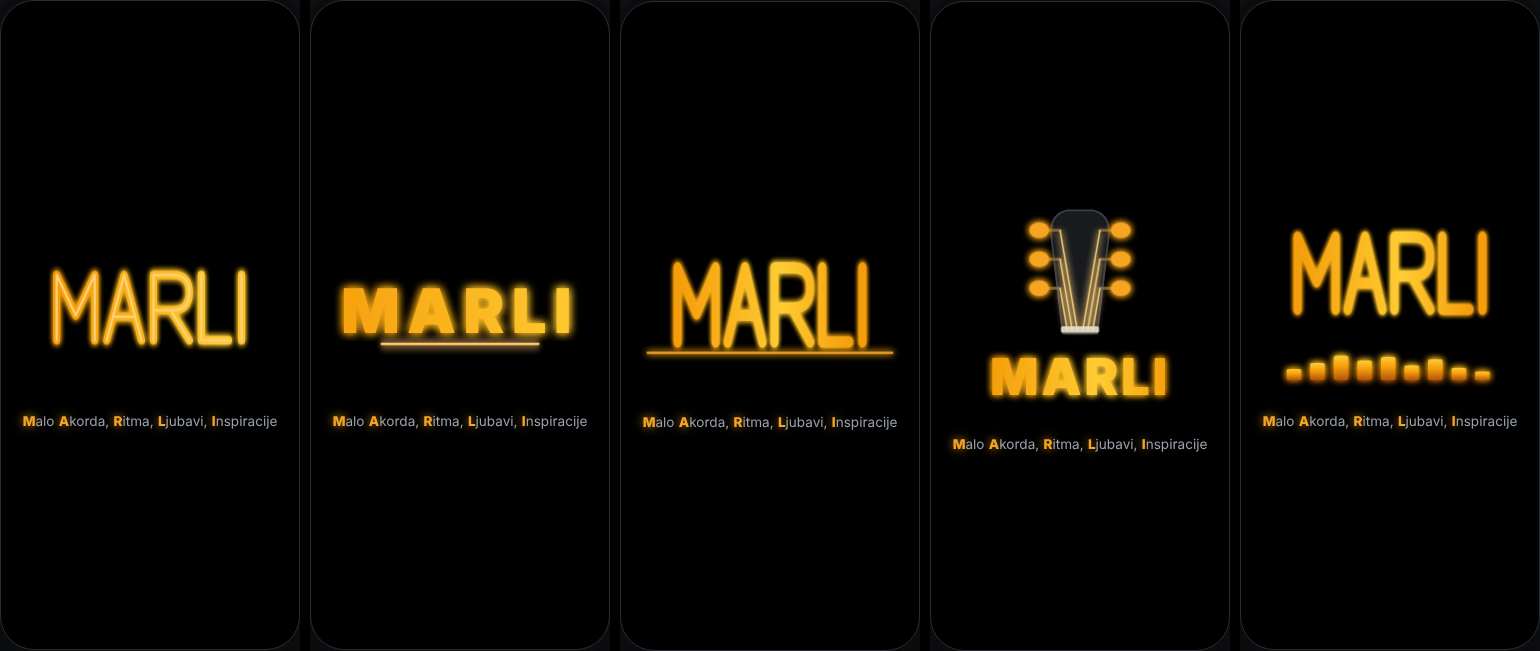
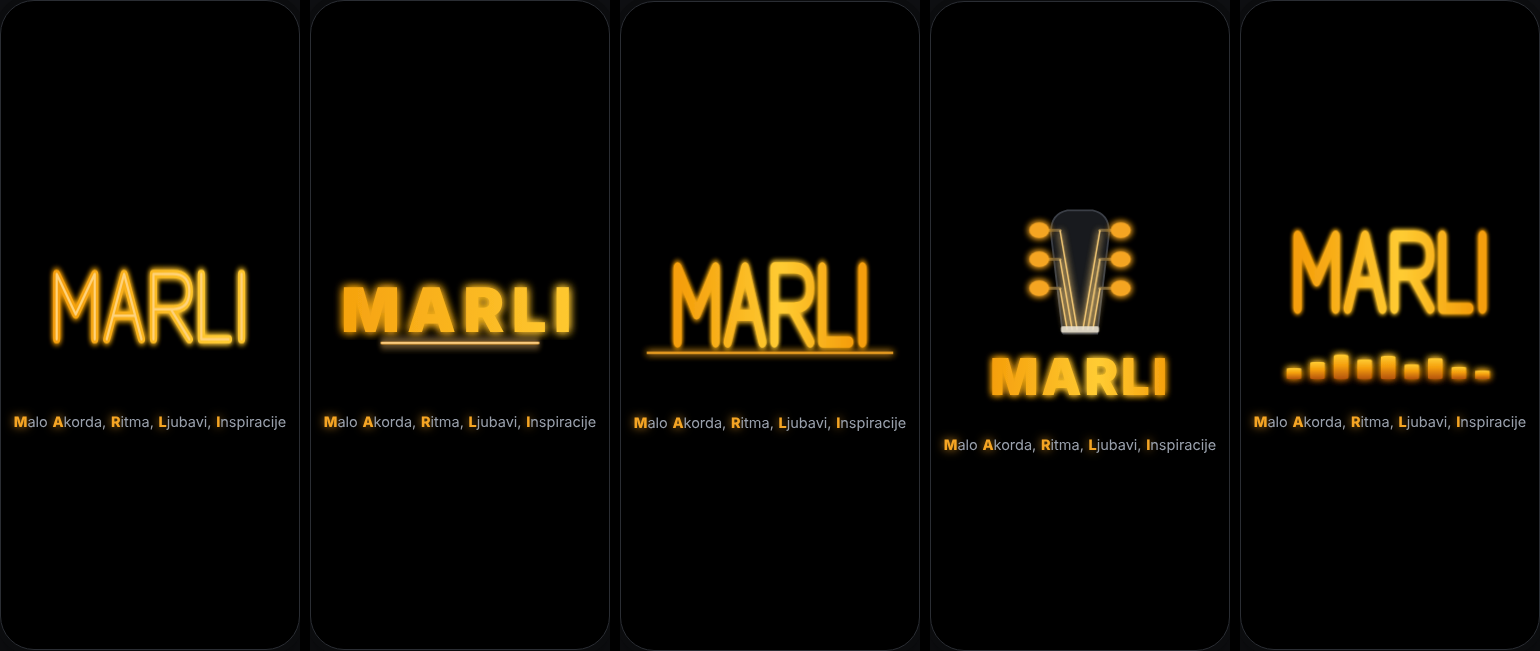
MARLI, faza 1: rečenica ispod imena uvek u jednom redu u svakom pregledaču (meri se i smanjuje dok ne stane)
Claude-Session: https://claude.ai/code/session_01NDUSKUN97fWP9dPBbYtahr

diff --git a/docs/marli/index.html b/docs/marli/index.html
@@ -56,7 +56,7 @@
   .phone { container-type: inline-size; width: min(300px, 82vw); aspect-ratio: 9 / 19.5; margin: 0 auto; border-radius: 34px; background: #000; border: 1px solid #2a2d33; box-shadow: 0 0 0 6px #0b0c0e, 0 18px 40px rgba(0,0,0,.6); position: relative; overflow: hidden; }
   .phone .stage { position: absolute; inset: 0; display: flex; flex-direction: column; align-items: center; justify-content: center; gap: 14px; }
   .anim-card .row { display: flex; gap: 10px; justify-content: center; margin-top: 14px; flex-wrap: wrap; }
-  .words { display: flex; flex-wrap: nowrap; white-space: nowrap; justify-content: center; gap: 0 .32em; padding: 0; width: 100%; font-size: 4.55cqw; color: var(--muted); letter-spacing: 0; min-height: 1.6em; text-align: center; }
+  .words { display: flex; flex-wrap: nowrap; white-space: nowrap; justify-content: center; gap: 0 .32em; padding: 0; width: 100%; font-size: 12px; font-size: 4.55cqw; color: var(--muted); letter-spacing: 0; min-height: 1.6em; text-align: center; }
   .words span { opacity: 0; transform: translateY(6px); display: inline-block; }
   .words span i { font-style: normal; color: var(--accent); font-weight: 800; text-shadow: 0 0 10px rgba(245, 165, 36, .85); }
   .play .words span { animation: wordIn .32s cubic-bezier(.2, .8, .2, 1) forwards; }
@@ -517,10 +517,22 @@ function anim5() {
     ${words(1.5)}</div>`;
 }
 const ANIMS = { 1: () => anim1(), 2: () => anim2(), 3: anim3, 4: anim4, 5: anim5 };
+// Rečenica ispod imena: uvek jedan red — meri se i smanjuje dok ne stane u širinu ekrana (radi u svakom pregledaču)
+function fitWords(root) {
+  root.querySelectorAll('.words').forEach((w) => {
+    const box = w.parentElement.clientWidth * 0.92;
+    w.style.display = 'inline-flex'; w.style.width = 'auto';
+    let fs = 17; w.style.fontSize = fs + 'px';
+    while (w.scrollWidth > box && fs > 7) { fs -= 0.25; w.style.fontSize = fs + 'px'; }
+    w.style.display = ''; w.style.width = '';
+  });
+}
+addEventListener('resize', () => document.querySelectorAll('.phone').forEach(fitWords));
 function play(n) {
   const ph = document.getElementById('ph' + n);
   ph.classList.remove('play');
   ph.innerHTML = ANIMS[n]();
+  fitWords(ph);
   const tl = ph.parentElement.querySelector('.timeline b'); tl.style.animation = 'none'; void tl.offsetWidth; tl.style.animation = '';
   void ph.offsetWidth;
   ph.classList.add('play');
